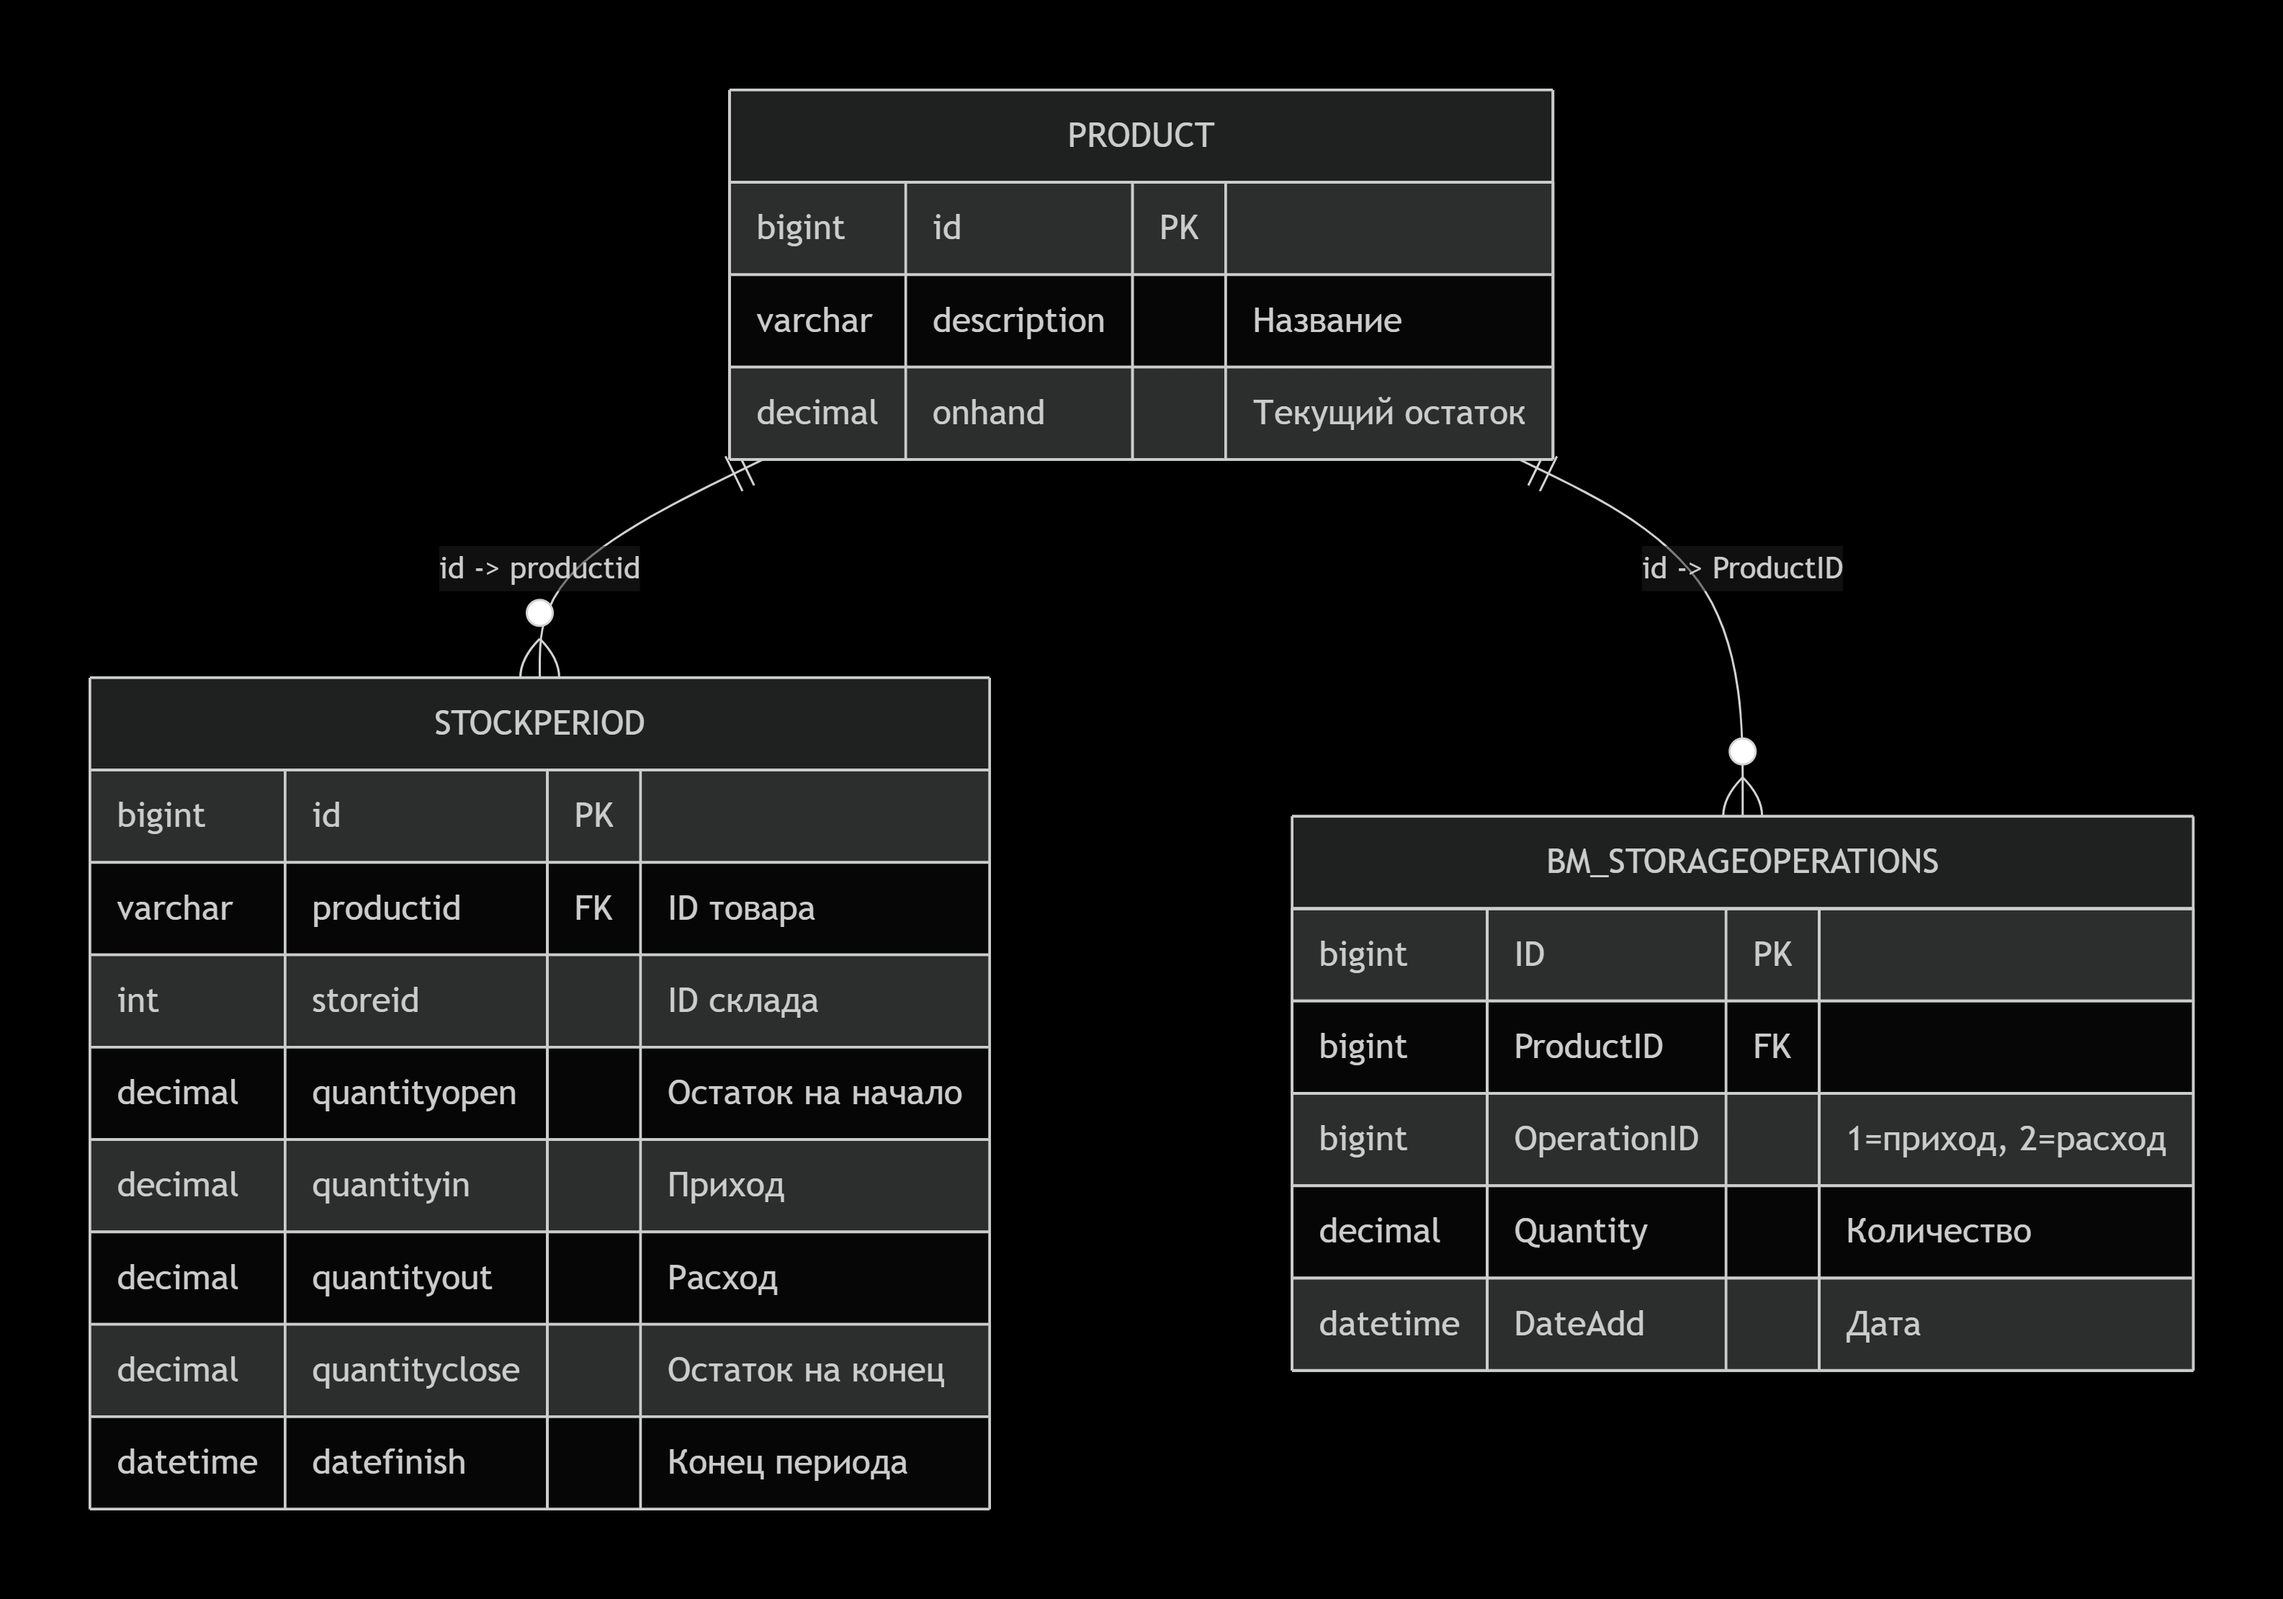
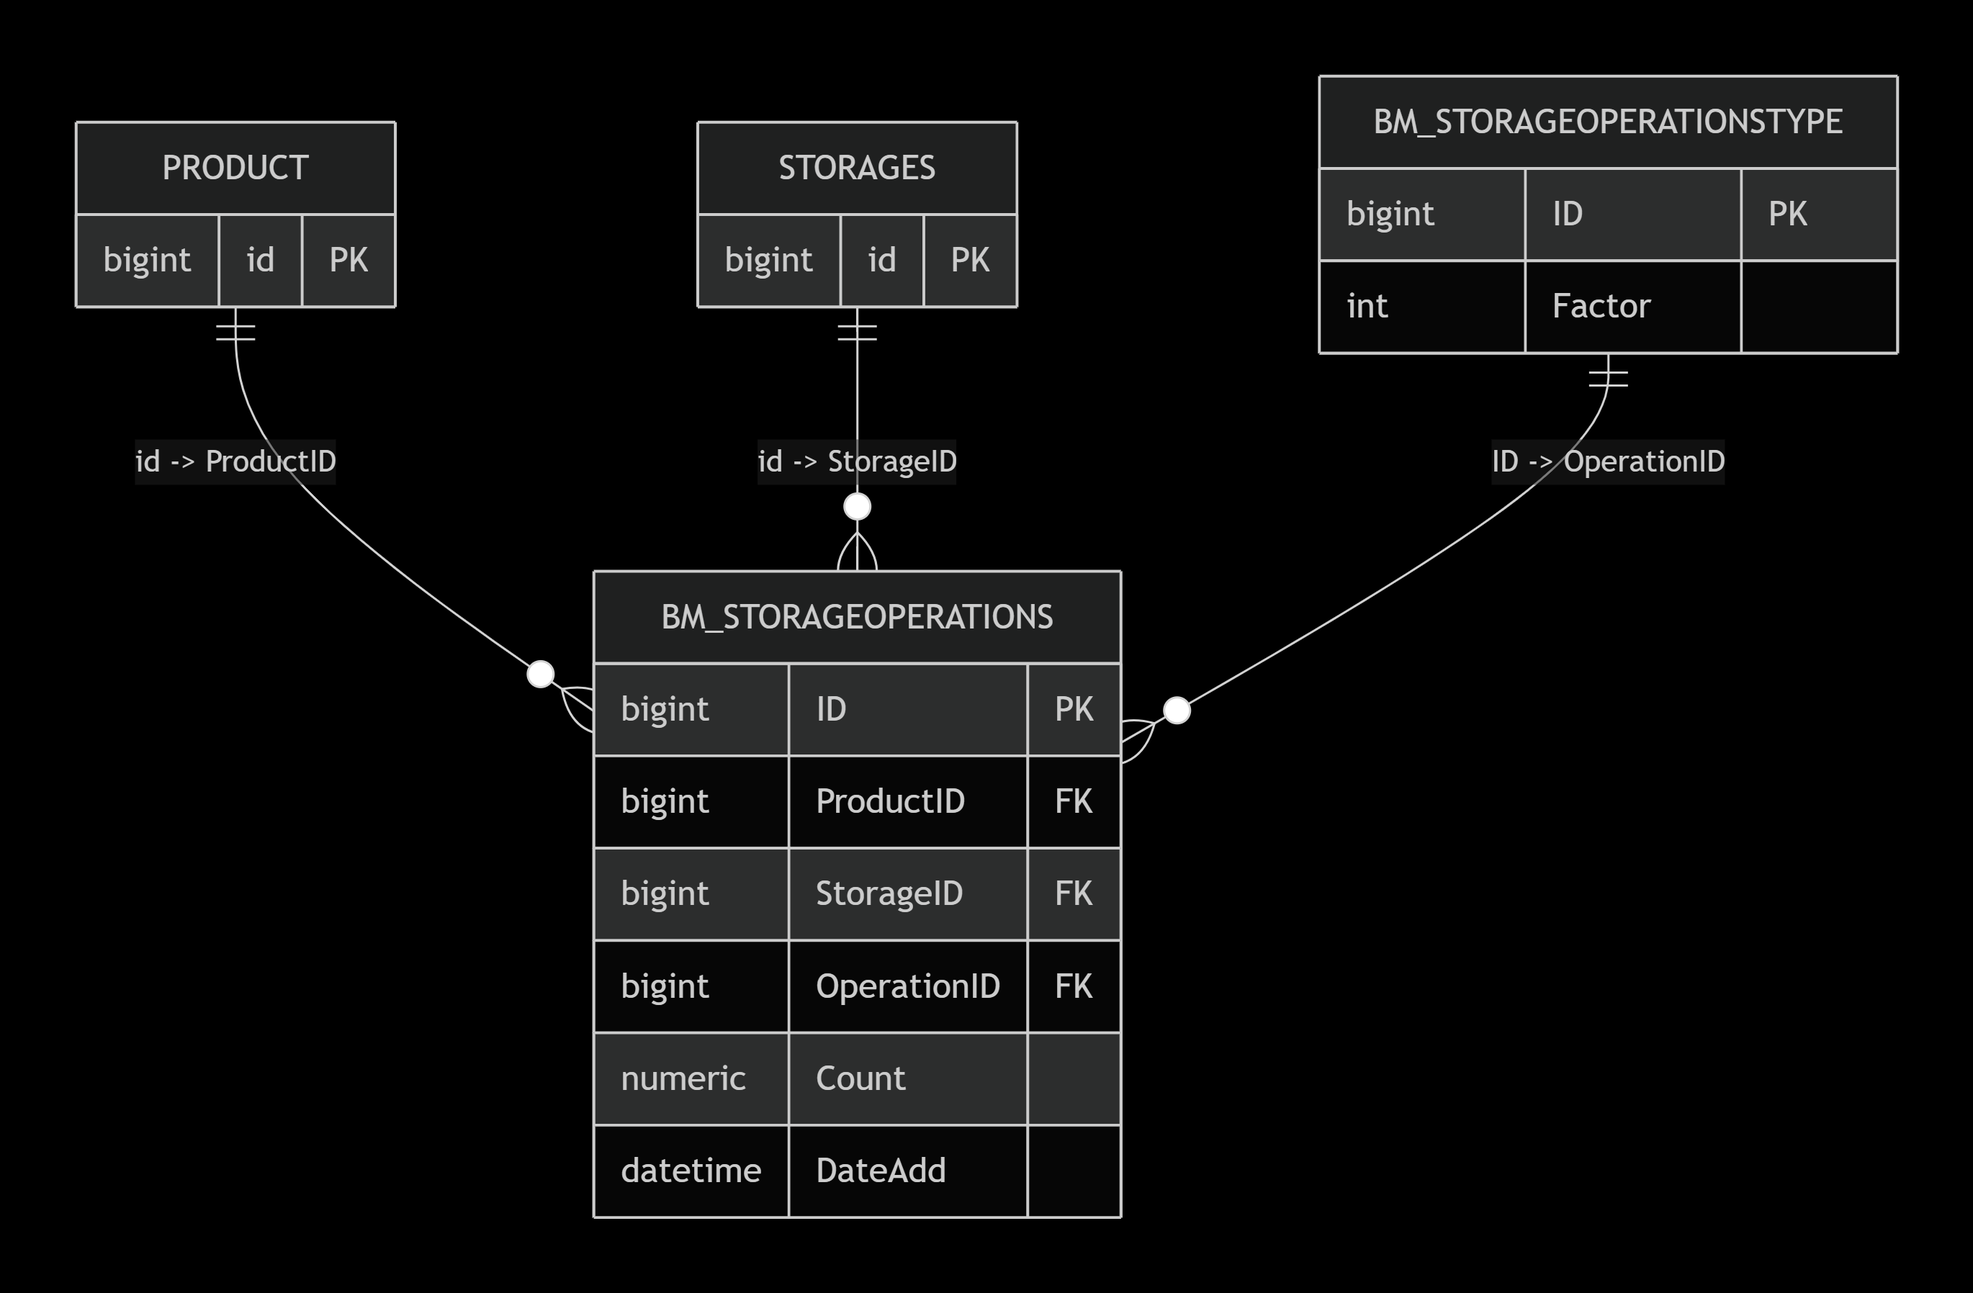
fix

diff --git a/FRONT.md b/FRONT.md
@@ -6,23 +6,21 @@
 
 -- ID - уникальный код записи (4780421)
 
--- DocumentID - уникальный код документа (388235)
+-- DocumentID - уникальный код документа (1)
 
--- OperationID - уникальный код операции (1)
+-- OperationID - уникальный код операции (1 = приход)
 
--- ProductID - уникальный код товара (4368)
+-- ProductID - уникальный код товара (1)
 
--- VendorID - уникальный код поставщика (200)
+-- VendorID - уникальный код поставщика (1)
 
--- StorageID - уникальный код склада (41)
+-- StorageID - уникальный код склада (1)
 
--- Period - период в формате YYYYMM (202011)
-
--- Count - фактическое количество товара (2.7640)
+-- Amount - сумма закупки (892.77)
 
 -- Price - цена (323.00)
 
--- Amount - сумма закупки (892.77)
+-- Count - фактическое количество (2.7640)
 
 -- DateAdd - дата операции (2020-11-15 14:15:30.183)
 
@@ -34,19 +32,22 @@
 
 -- vendorgroup: vendorgroupid, description - группа поставщиков
 
+
 ***2. Анализ продажи товара***
 
 **Заголовки: journal**
 
 *Данные:*
 
--- id - уникальный код чека (1675584)
+-- transnumber - уникальный код транзакции (1)
+
+-- id - строковый идентификатор (varchar)
 
 -- dater - дата и время продажи (2020-11-15 14:15:30.183)
 
--- amount - итоговая сумма чека (0.00)
+-- amount - итоговая сумма чека (100.000)
 
--- loginid - ID кассира (0.00)
+-- loginid - ID кассира (1)
 
 -- transtype - тип операции (301)
 
@@ -56,9 +57,9 @@
 
 -- ID - уникальный код строки (11530445)
 
--- SourceID - ID заголовка чека (1675591)
+-- SourceID - ID заголовка чека (1)
 
--- ProductID - уникальный код товара (4407)
+-- ProductID - уникальный код товара (1)
 
 -- Quantity - количество (1.0000)
 
@@ -83,13 +84,11 @@
 
 -- id - уникальный код (90)
 
--- firstname - название контрагента (Светофор)
+-- firstname - название контрагента (ИП Габур)
 
--- clientgroup - ID группы (31)
+-- clientgroup - ID группы (1)
 
 -- INN - реквизиты (3840001848)
-
--- IsUse - флаг активности (1)
 
 **Связанные:**
 
@@ -103,13 +102,11 @@
 
 *Данные:*
 
--- personid - уникальный код сотрудника/рабочего места (904, 905, 906, 897)
+-- personid - уникальный код сотрудника (905)
 
--- lastname, firstname - ФИО или название роли/терминала (Касса 1, Кафе 2, Доставка, Администратор Barnet)
+-- lastname, firstname, middlename - ФИО или роль (Кафе 2, Касса 2)
 
 -- flagpos, flagsales - права доступа (1/0)
-
--- password, securityaccess - данные для авторизации
 
 **Связанные:**
 
@@ -126,14 +123,19 @@
 
 *Данные:*
 
--- ProductID - ID товара
+-- ID - уникальный код записи (4780421)
 
--- OperationID - 1 = приход, 2 = расход
+-- ProductID - ID товара (FK на product.id)
 
--- Count - количество
+-- OperationID - тип операции (1/2)
 
--- DateAdd - дата операции
+-- Count - количество (2.7640)
+
+-- StorageID - ID склада (1)
+
+-- DateAdd - дата операции (2020-11-15 14:15:30.183)
 
 **Связанные:**
 
 -- product: id, description - текущий остаток
+-- storages - справочник складов
